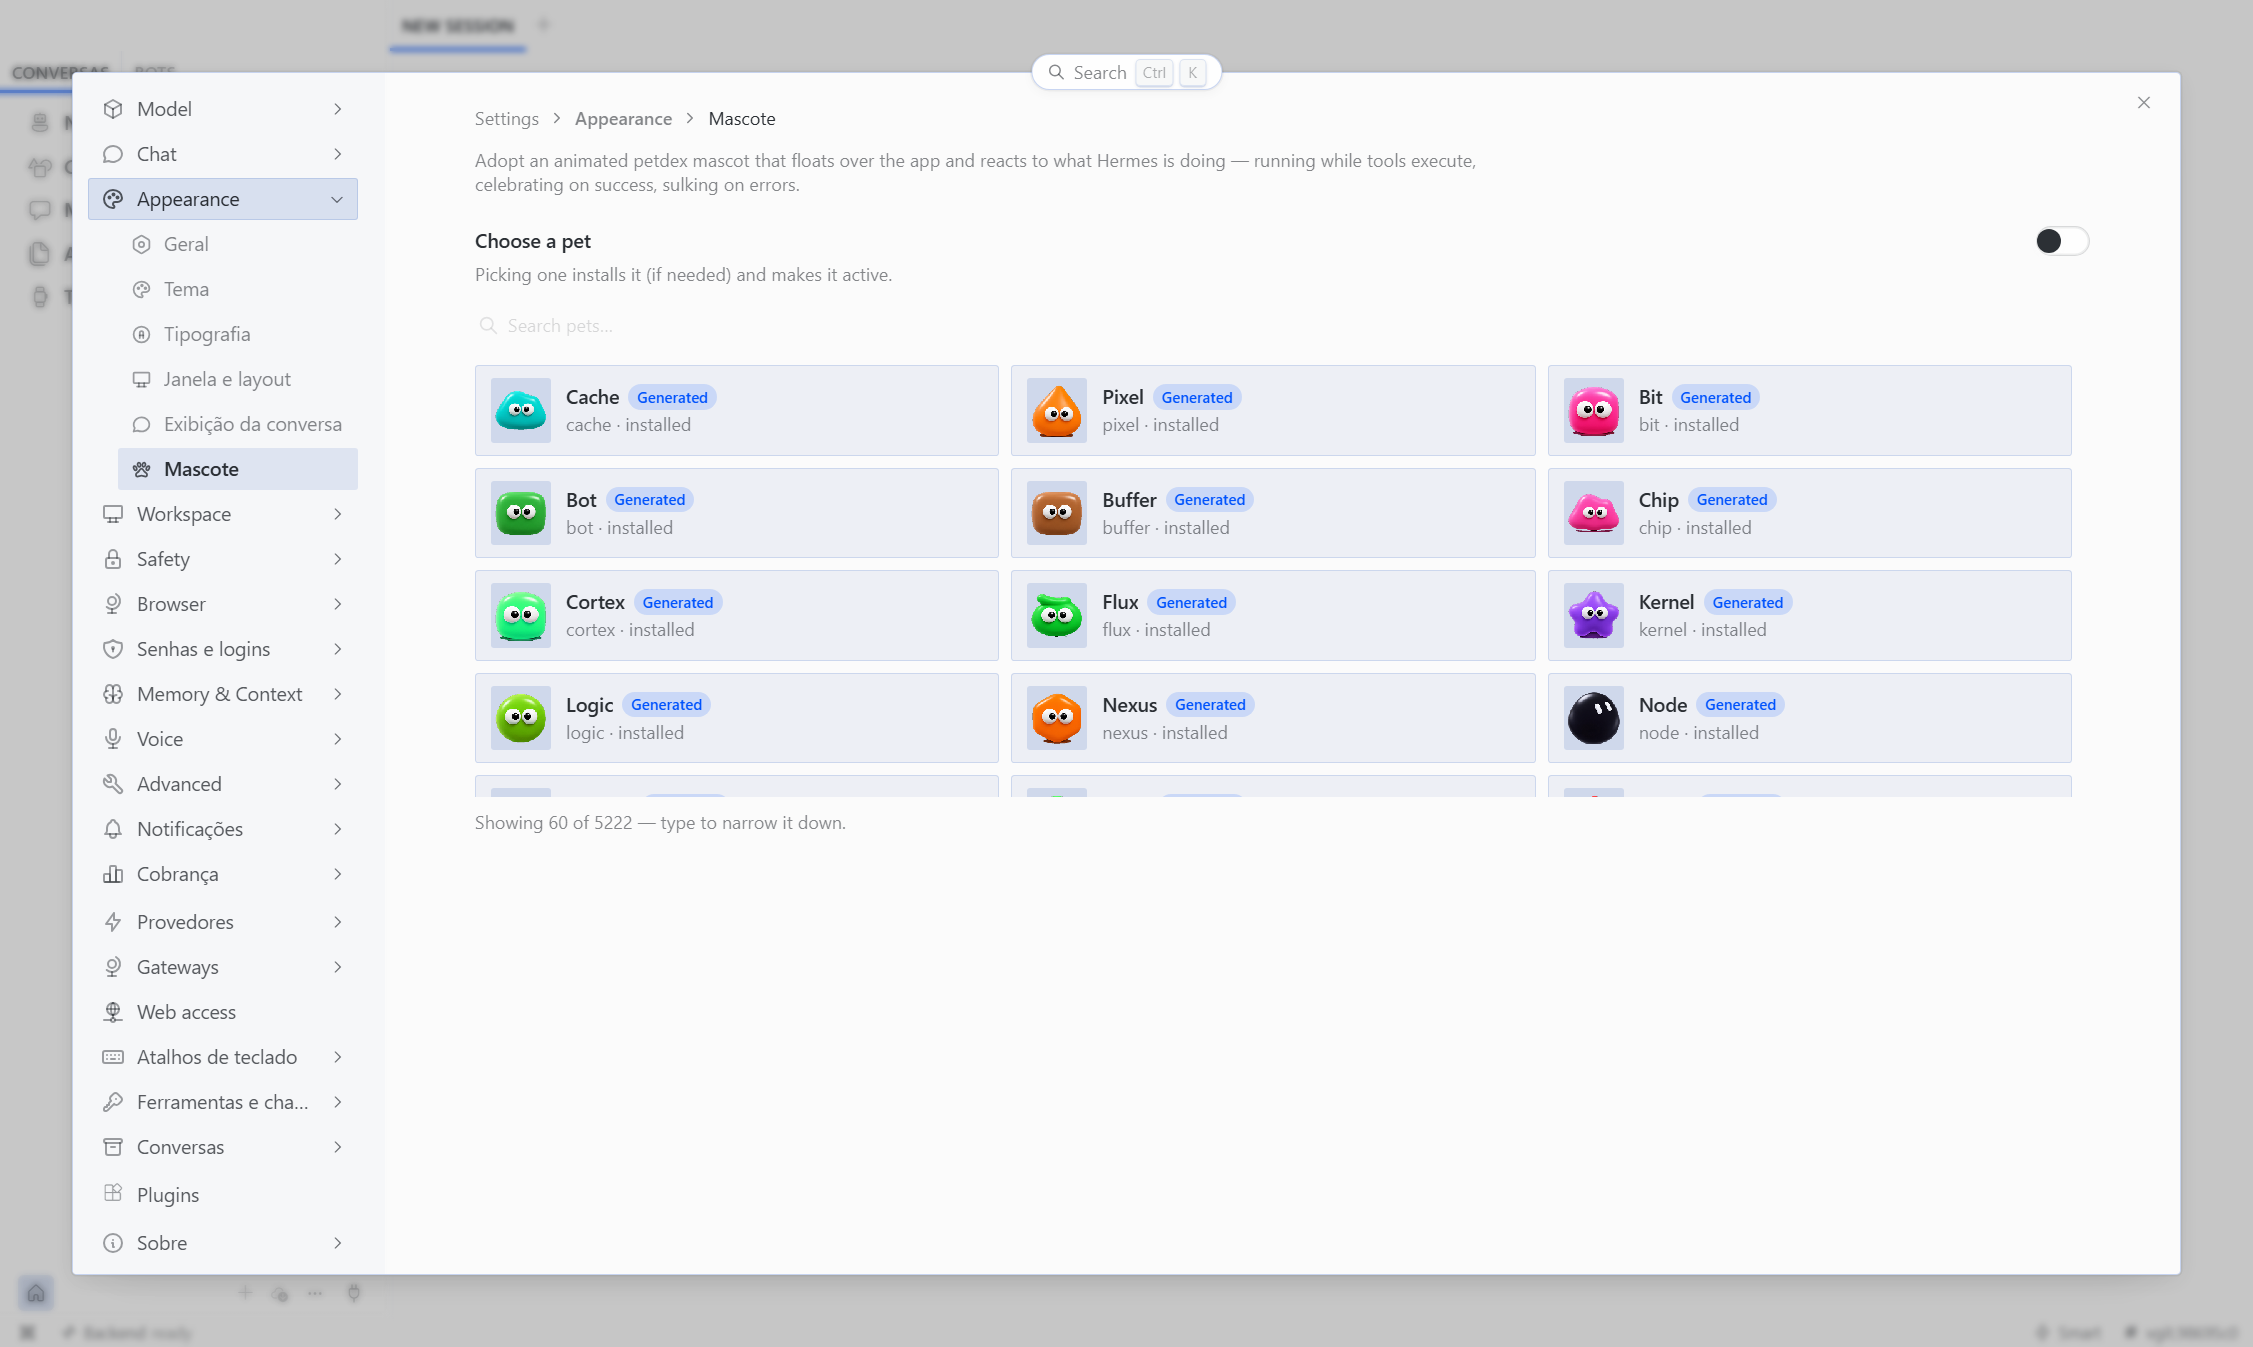
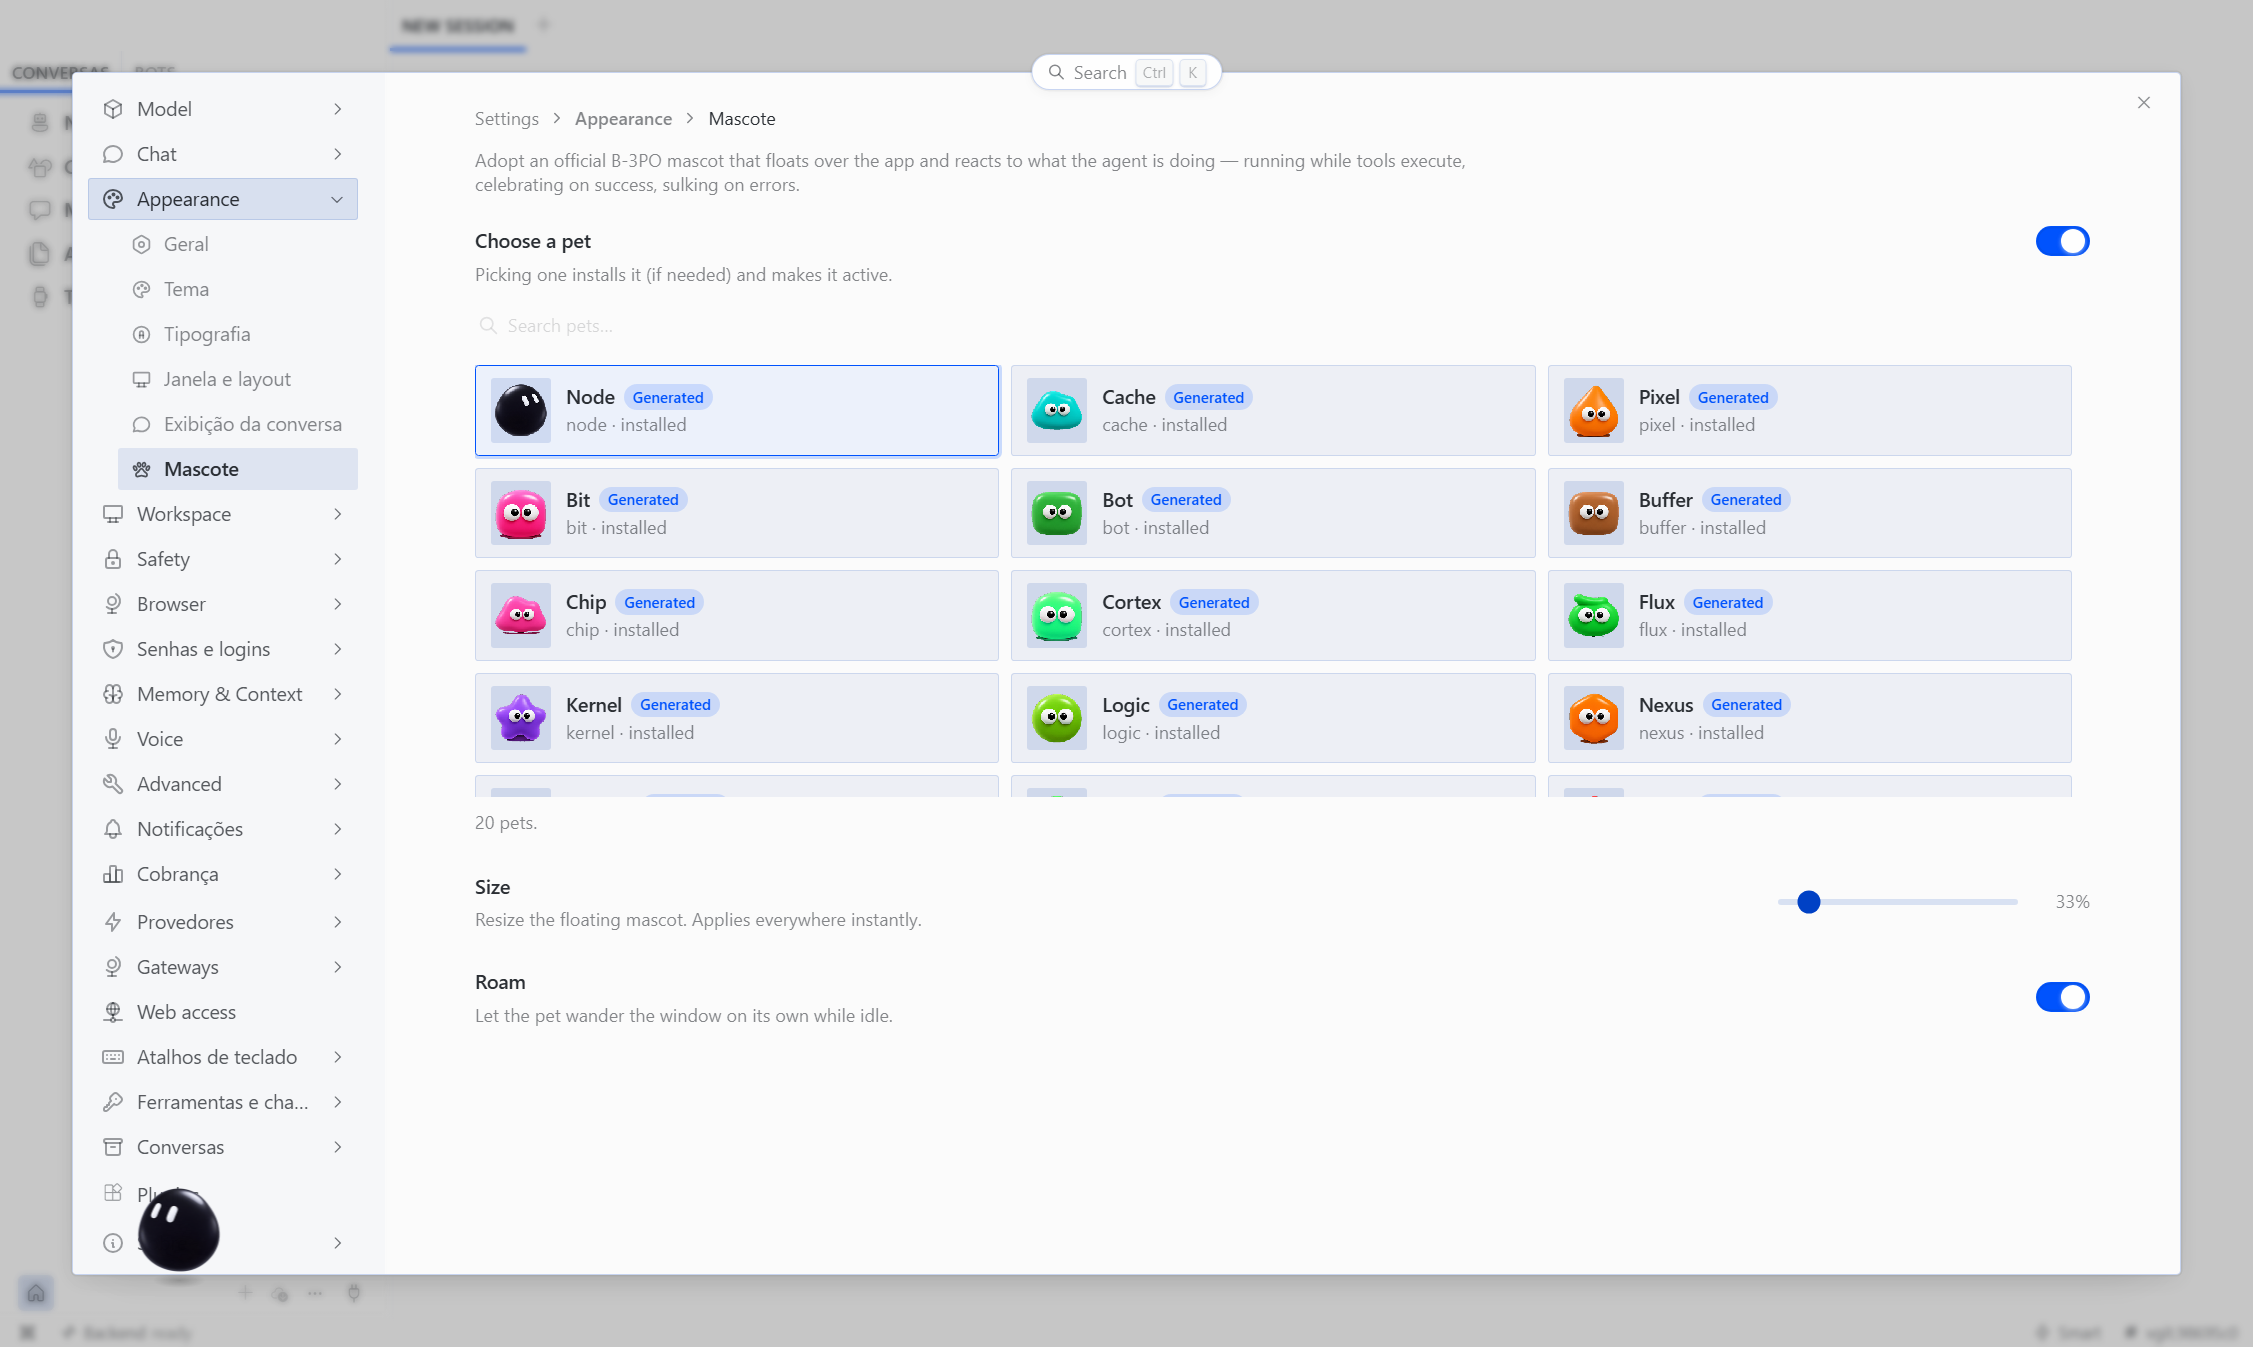
docs(b3po): mascotes oficiais na galeria (evidencia) e cobertura atualizada

diff --git a/docs/b3po/BRAND-COVERAGE.md b/docs/b3po/BRAND-COVERAGE.md
@@ -24,7 +24,7 @@ Mapa das superfícies visíveis. `Hermes` continua sendo o nome do **runtime** (
 
 | Superfície | O que aparece | Ação |
 |---|---|---|
-| **Configurações → Aparência → Mascote** | catálogo **petdex** (Nukey, Socksy, Daemon Dumpling, Cache Capy…) com pets animados | substituir o catálogo de pets pelos **20 mascotes da marca**, ou esconder a página enquanto não houver versão animada |
+| ~~Configurações → Aparência → Mascote~~ | **resolvido em `45f23954`** | os 20 mascotes oficiais são empacotados como pets locais (`scripts/generate_brand_pets.py`); a galeria lista só a marca ("20 pets"), sem petdex e sem "Hermes" |
 | Título da aba de sessão nova | `NEW SESSION` | traduzir no catálogo |
 | Texto de apresentação do chat vazio | inglês | traduzir `intro-copy` |
 | PDFs/docs do site | "Hermes Agent" em páginas de marketing | rebrand de documentação (fora da UI do app) |
